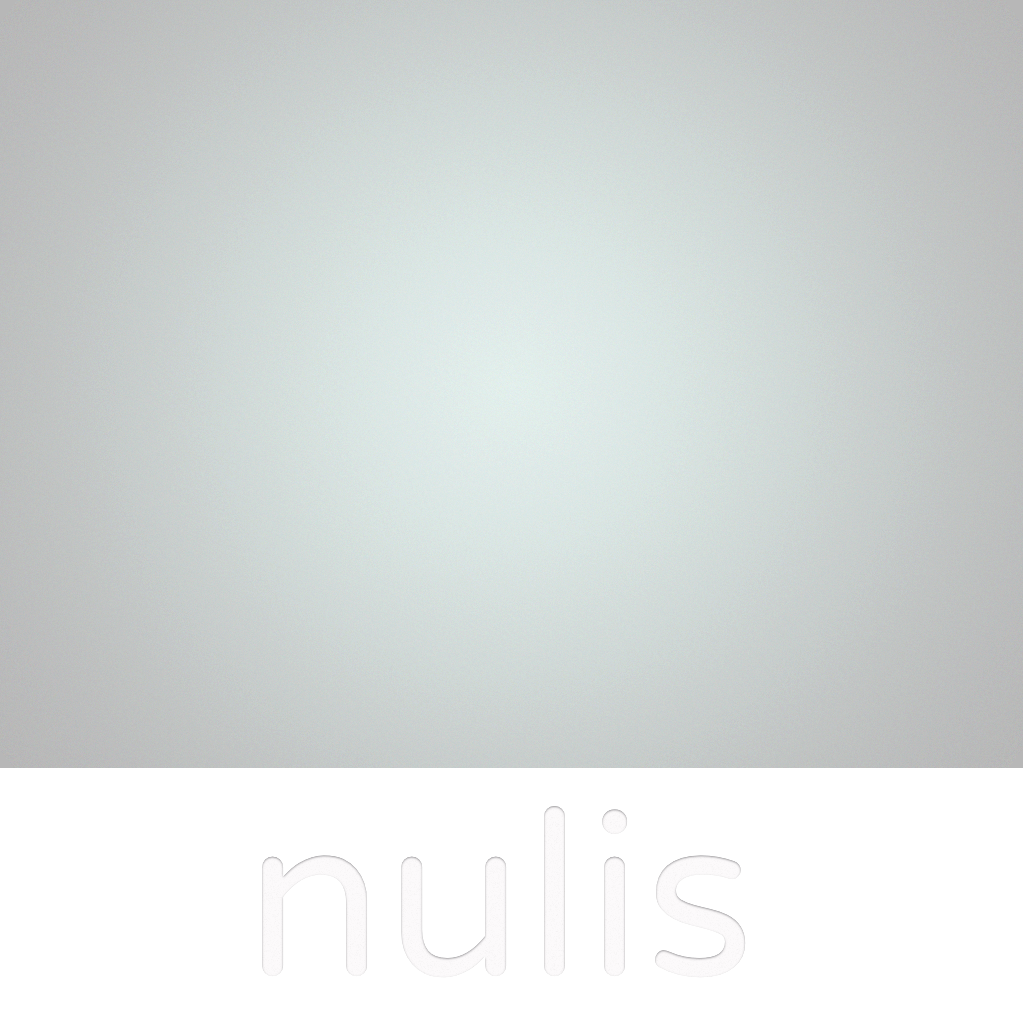
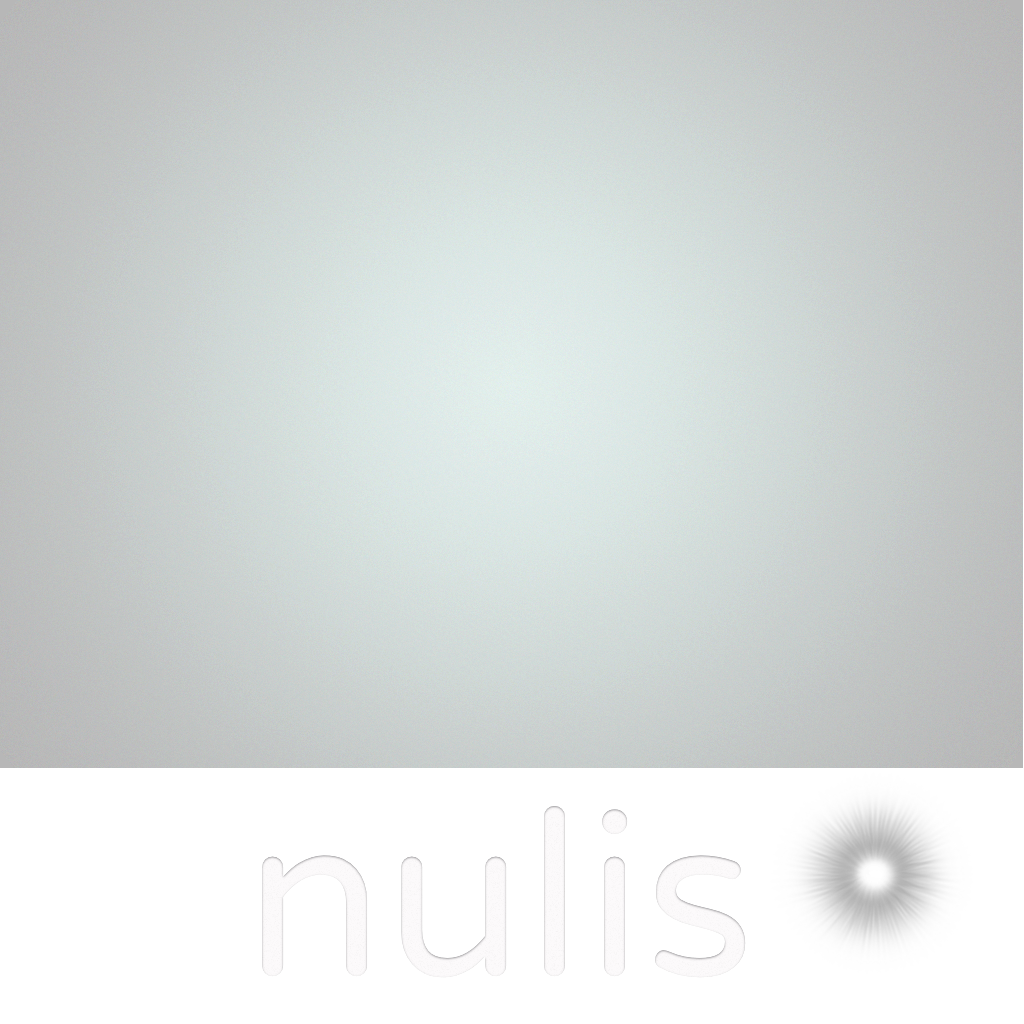
nulis: new ball types

Changed region(s): [[0.7812, 0.7812, 0.9375, 0.9375]]

diff --git a/dgreed/apps/nulis/sim.c b/dgreed/apps/nulis/sim.c
@@ -12,15 +12,30 @@ const RectF ball_rects[] = {
 	{32.0f, 0.0f, 85.0f, 32.0f},
 	{32.0f, 32.0f, 85.0f, 64.0f},
 	{0.0f, 64.0f, 52.0f, 64.0f + 52.0f},
-	{52.0f, 64.0f, 52.0f + 52.0f, 64.0f + 52.0f}
+	{52.0f, 64.0f, 52.0f + 52.0f, 64.0f + 52.0f},
+	{156.0f - 52.0f, 116.0f - 52.0f, 156.0f, 116.0f},
+	{208.0f - 52.0f, 116.0f - 52.0f, 208.0f, 116.0f},
+	{118.0f, 0.0f, 118.0f + 32.0f, 32.0f},
+	{118.0f, 32.0f, 118.0f + 32.0f, 32.0f + 32.0f},
 };
 const RectF ball_core_rect = {85.0f, 0.0f, 85.0f + 32.0f, 32.0f};
 const uint balls_layer = 3;
 
+typedef enum {
+	BT_BLACK = 0,
+	BT_WHITE,
+	BT_GRAV_BLACK,
+	BT_GRAV_WHITE,
+	BT_TIME_BLACK,
+	BT_TIME_WHITE,
+	BT_TYPE_COUNT
+} BallType;
+
 typedef struct {
 	Vector2 p, v;
 	float r, a, w, birth_t, core;
-	uint type, mass;
+	BallType type;
+	uint mass;
 	Color color;
 	bool remove;
 } Ball;
@@ -272,6 +287,15 @@ void sim_update(void) {
 				Vector2 midpoint = vec2_add(a->p, vec2_scale(path, 0.5f));
 				float dir = atan2f(path.y, path.x);
 
+				if(a->type > BT_WHITE || b->type > BT_WHITE) {
+					// Fancy ball type
+					path = vec2_normalize(path);
+					//effects_collide_ab(midpoint, dir);
+					a->v = vec2_add(a->v, vec2_scale(path, -collide_force));
+					b->v = vec2_add(b->v, vec2_scale(path, collide_force));
+					continue;
+				}
+
 				if(a->type == b->type) {
 					// Same type
 					a->remove = true;
@@ -345,7 +369,7 @@ static void _render_ball_internal(Vector2 p, Ball* b, uint rect_i,
 			b->a, scale, col);
 
 	float t = clamp(0.0f, 1.0f, b->core);
-	if(t > 0.0f) {
+	if(t > 0.0f && b->type <= BT_WHITE) {
 		Color col = b->color;
 		col &= ((byte)lrintf(t * 255.0f)) << 24 | 0xFFFFFF;
 		if(b->mass == 1) {
@@ -364,7 +388,12 @@ static void _render_ball_internal(Vector2 p, Ball* b, uint rect_i,
 }
 
 static void _render_ball(Ball* b, bool ghost, float t) {
-	uint rect_i = b->type + (b->mass-1)*2;
+	uint rect_i;
+	if(b->type <= BT_WHITE)
+		rect_i = b->type + (b->mass-1)*2;
+	else
+		rect_i = 4 + b->type;
+
 	Color col = COLOR_WHITE;
 	if(ghost) {
 		float bt = 1.0f - clamp(0.0f, 1.0f, (t - b->birth_t) / ghost_lifetime);

diff --git a/dgreed/src/tilemap.c b/dgreed/src/tilemap.c
@@ -168,6 +168,8 @@ void tilemap_free(Tilemap* t) {
 
 	assert(t->collission);
 	MEM_FREE(t->collission);
+
+	MEM_FREE(t);
 }
 
 static void _tileid_source(Tilemap* t, float time, uint16 tileid, 
